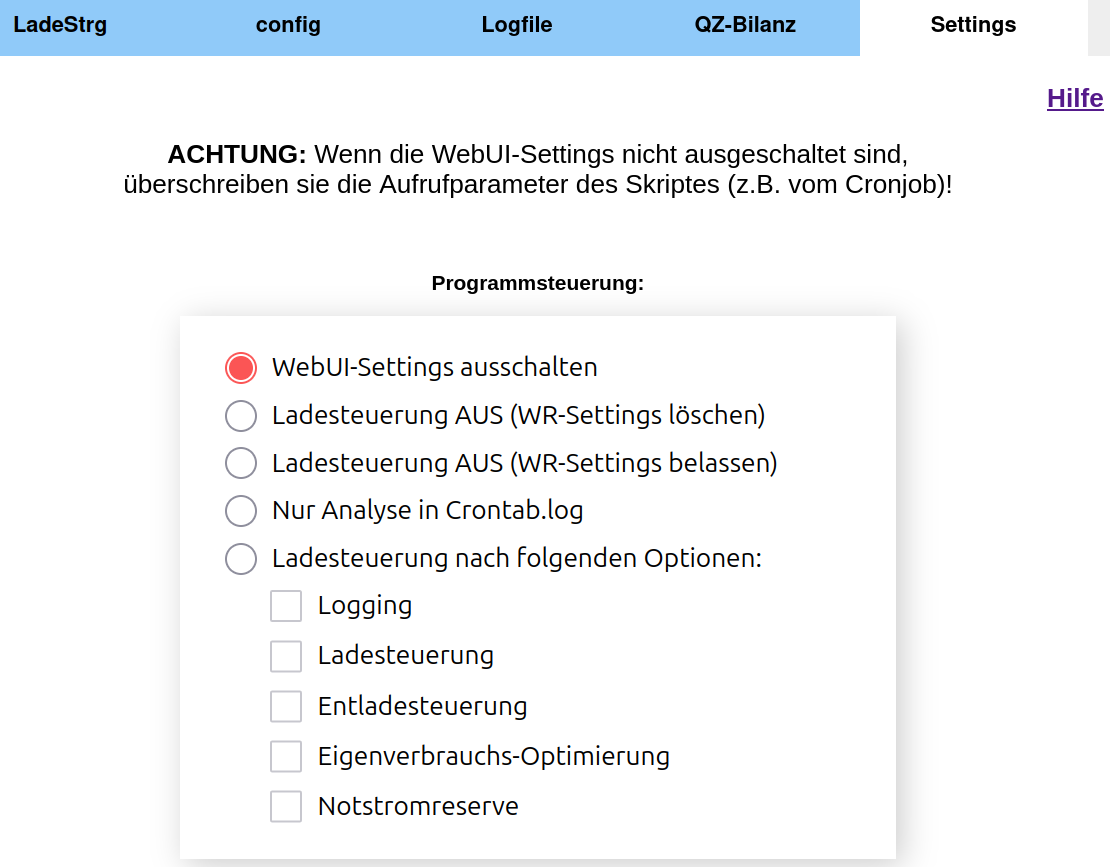
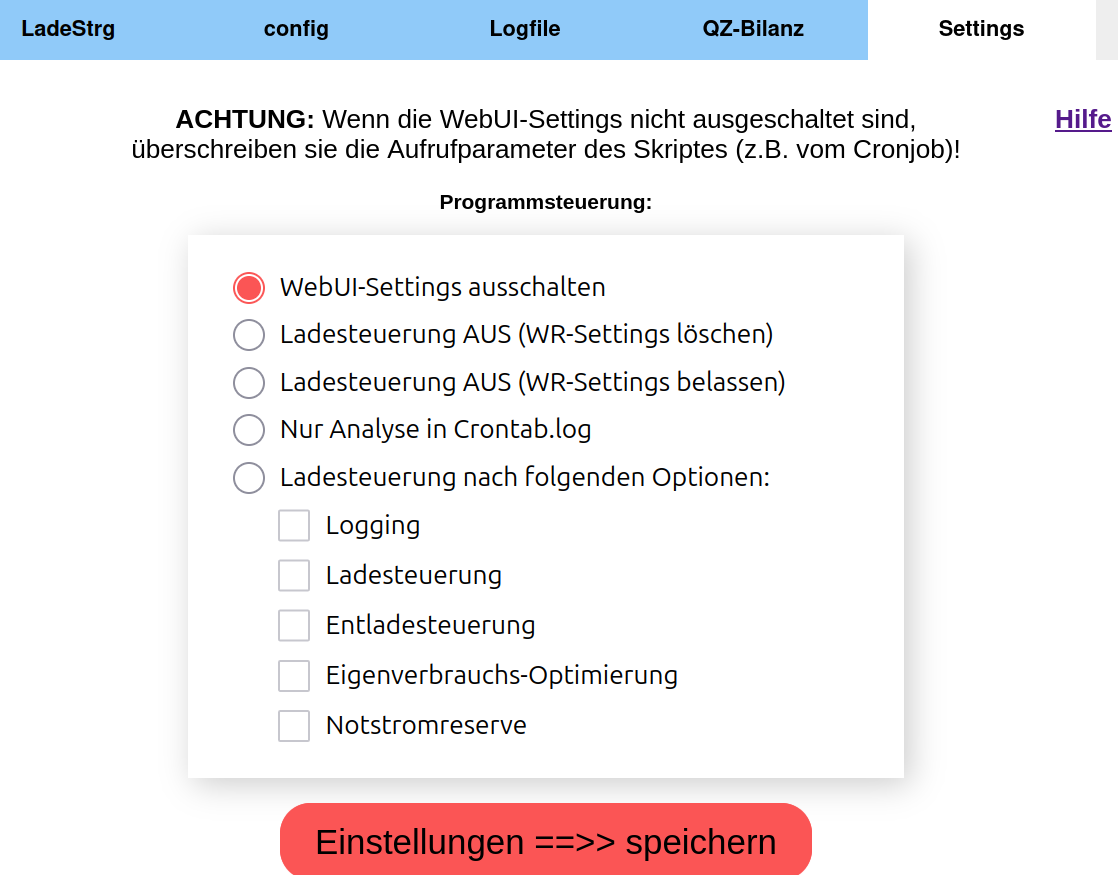
Hilfelink in Settings fixiert

diff --git a/html/9_tab_settigs.php b/html/9_tab_settigs.php
@@ -79,6 +79,13 @@ input[type="checkbox"] {
   font-family:Arial;
   font-size:150%;
   color: #000000;
+  position: fixed;
+  right: 8px;
+}
+.ACHTUNG{
+  font-family:Arial;
+  font-size:150%;
+  color: #000000;
 }
 .containerbeschriftung{
   font-family:Arial;
@@ -93,11 +100,10 @@ input[type="checkbox"] {
  <body onload="disablecheckboxes()">
  <div class="hilfe" align="right"> <a href="9_Hilfe.html"><b>Hilfe</b></a></div>
   <div class="container">
-   <div class="hilfe" align="center"><p>
+   <div class="ACHTUNG" align="center"><p>
    <b>ACHTUNG:</b> Wenn die WebUI-Settings nicht ausgeschaltet sind, 
    <br>überschreiben sie die Aufrufparameter des Skriptes (z.B. vom Cronjob)!
    </p></div>
-   <br />
   </div>
 
 <?php
